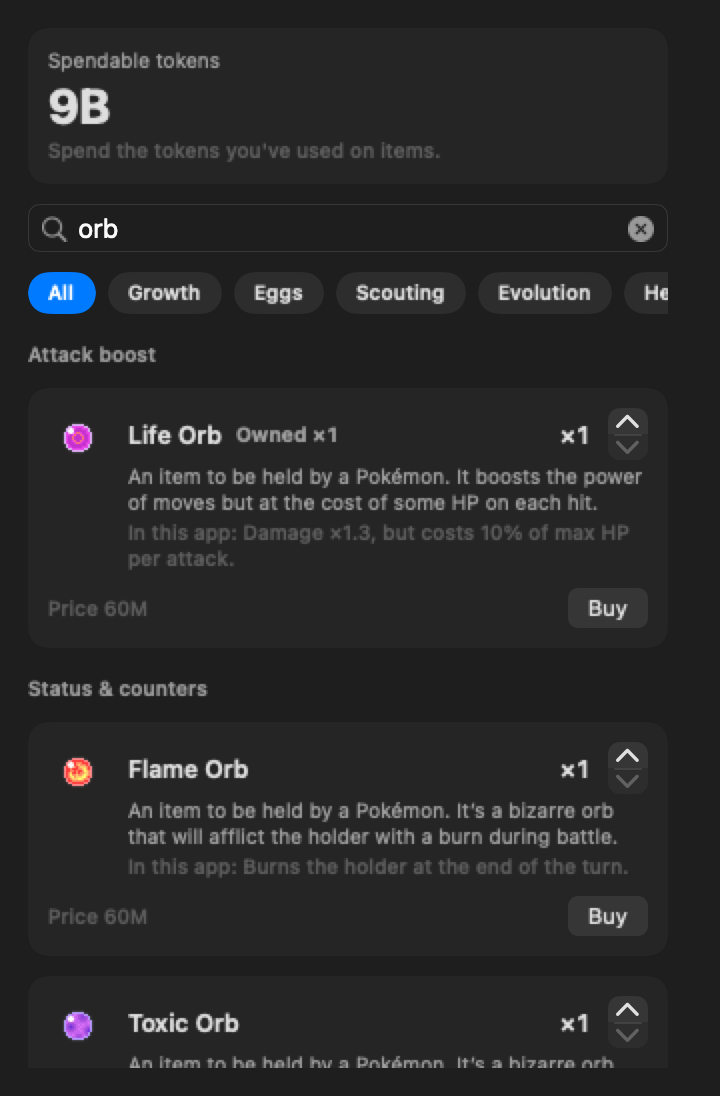
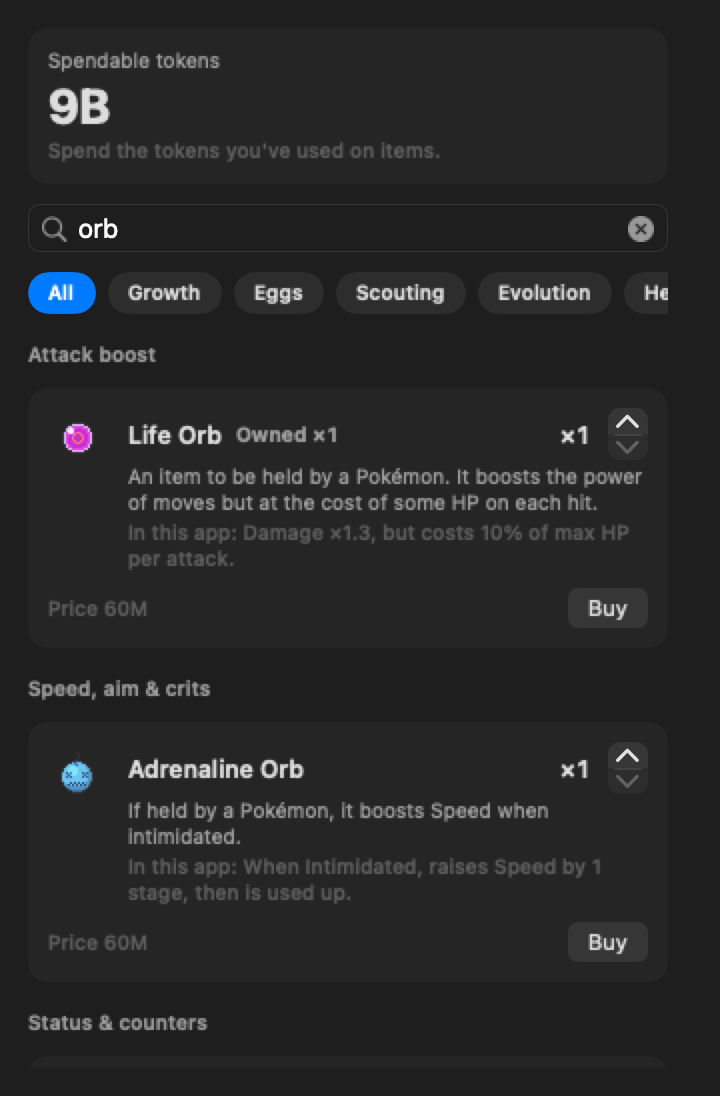
landing: every held item works in battles and the Shop sells it, with the redrawn Shop search

diff --git a/pages-i18n.js b/pages-i18n.js
@@ -98,7 +98,7 @@ const I18N_PAGES = {
     "bat.attack.d": "Every attacking move now does what it says: added effects like flinching and burns, recoil and draining, the damage a missed High Jump Kick deals, set damage like Night Shade and Super Fang, one-hit KOs, power from weight, HP or Speed, two-turn moves like Solar Beam and Fly, Outrage and the binding moves, Sucker Punch and Fake Out, Foul Play and Body Press, Future Sight, and Feint breaking through Protect. Trainers weigh recoil and HP costs before they pick. Two are left out and do nothing: Natural Gift and Fling, because the app keeps no per-berry or per-item power for them. Contact effects like Rocky Helmet and Static trigger only on moves that make contact, so Earthquake and Flower Trick don’t set them off, and a Mega Stone holder uses its entry ability, such as Intimidate, before it Mega Evolves at the start of its first turn. Protean and Libero turn their holder into the type of the move it uses, once each time it comes in. Every ability works too: 281 have their effect, the rest have none in this one-on-one format, and the replay shows form changes such as Stance Change and Zen Mode.",
     "bat.boss.t": "The hidden boss",
     "bat.boss.d": "Beat the champion and each region’s hidden boss opens below the Elite Four: one battle against six Pokémon and a hidden finale. The first win pays a TM with 100+ power, a shiny egg of the region’s legendary, 16 Rare Candies and the region’s signature items, and adds an emblem to the badge case.",
-    "bat.shop.d": "The Shop sells every item an NPC trainer holds, such as the Red and Blue Orbs, plates, resist berries and the Punching Glove.",
+    "bat.shop.d": "The Shop sells every held item that does something in battle: the Red and Blue Orbs, plates and resist berries NPC trainers hold, and also type gems, pinch berries, memories and drives.",
     "bat.replay.t": "Watch it play out",
     "bat.replay.d": "A gym fight plays back turn by turn: moves, damage, HP bars and each side’s remaining Pokémon. Mega Evolutions and form changes show in their new form from the turn they happen. Move names follow the app language. Fast-forward, step to the next turn, or skip to the result.",
     "bat.bot.t": "The YPoke Slack battle bot",
@@ -132,7 +132,7 @@ const I18N_PAGES = {
     "alt.eggMoves": "Native move picker sample with two locked egg moves, Needs a Mirror Herb and a Use Mirror Herb button",
     "it.profile.t": "Every Pokémon has a profile.",
     "it.profile.d": "Open a Pokémon in the Box for its level, gender, nature, ability, IVs, stats, held item and moves. Descriptions, abilities and moves follow your language, with English as the fallback.",
-    "alt.shopSearch": "Native Shop sample searched for orb, with Life Orb, Flame Orb and Toxic Orb under their usual headers",
+    "alt.shopSearch": "Native Shop sample searched for orb, with Life Orb and Adrenaline Orb under their usual headers",
     "alt.statusMoves": "Native move picker sample with level-up moves and a Status moves group",
     "alt.moveOrder": "Native sample of four move slots as cards, each filled one with up and down arrows and a Forget button",
     "nf.title": "This page wandered off.",
@@ -236,7 +236,7 @@ const I18N_PAGES = {
     "bat.attack.d": "모든 공격 기술이 제 효과를 내요. 풀죽음·화상 같은 추가 효과, 반동·흡수, 무릎차기가 빗나갔을 때 받는 데미지, 나이트헤드·분노의앞니 같은 고정 데미지, 일격필살, 무게·HP·스피드로 정해지는 위력, 솔라빔·공중날기 같은 2턴 기술, 역린과 조이기 기술, 기습·속이다, 속임수·바디프레스, 미래예지, 방어를 뚫는 페인트까지요. 트레이너는 반동과 HP 소모를 따져서 기술을 골라요. 자연의은혜와 내던지기 두 개만 빠져서 아무 일도 하지 않아요. 열매·도구별 위력 데이터가 앱에 없기 때문이에요. 울퉁불퉁멧·정전기 같은 접촉 효과는 접촉하는 기술에만 발동해서 지진·트릭플라워에는 발동하지 않고, 메가스톤을 지닌 포켓몬은 위협 같은 등장 특성을 먼저 쓴 뒤 첫 턴이 시작될 때 메가진화해요. 변환자재·리베로 특성을 가진 포켓몬은 나올 때마다 한 번, 쓰는 기술의 타입으로 바뀌어요. 특성도 모두 동작해요. 281개가 제 효과를 내고, 나머지는 이 1대1 대결 방식에서 효과가 없어요. 배틀스위치·달마모드 같은 폼 변화는 리플레이에도 보여요.",
     "bat.boss.t": "숨겨진 강자",
     "bat.boss.d": "챔피언을 이기면 지방마다 사천왕 아래에 숨겨진 강자가 열려요. 여섯 마리와 정체를 숨긴 마지막 포켓몬을 상대로 한 번 싸워요. 처음 이기면 위력 100 이상의 기술머신, 그 지방 전설 포켓몬의 빛나는 알, 이상한사탕 16개, 그 지방의 전용 도구를 받고, 배지 케이스에 문장이 생겨요.",
-    "bat.shop.d": "상점에서는 NPC 트레이너가 지닌 도구를 모두 팔아요. 주홍구슬·쪽빛구슬, 플레이트, 반감 열매, 펀치글러브 같은 것들이에요.",
+    "bat.shop.d": "상점에서는 대결에서 효과가 있는 지닌 도구를 모두 팔아요. NPC 트레이너가 지닌 주홍구슬·쪽빛구슬, 플레이트, 반감 열매부터 타입 주얼, 위기에 먹는 열매, 메모리, 카세트까지요.",
     "bat.replay.t": "대결 다시 보기",
     "bat.replay.d": "체육관 대결은 턴마다 다시 재생돼요. 기술·대미지·HP 바·양쪽에 남은 포켓몬을 볼 수 있고, 빨리 감기·다음 턴·건너뛰기로 결과까지 넘길 수 있어요. 메가진화나 폼 변화는 그 턴부터 바뀐 모습으로 나와요. 기술 이름은 앱 언어로 나와요.",
     "bat.bot.t": "YPoke 슬랙 대결 봇",
@@ -270,7 +270,7 @@ const I18N_PAGES = {
     "alt.eggMoves": "잠긴 알 기술 두 개와 흉내허브 필요, 흉내허브 쓰기 버튼이 있는 실제 기술 선택 UI 샘플",
     "it.profile.t": "포켓몬마다 프로필이 있어요.",
     "it.profile.d": "박스에서 포켓몬을 열면 레벨·성별·성격·특성·개체값·능력치·지닌 도구·기술이 나와요. 설명과 특성·기술은 선택한 언어로, 번역이 없으면 영어로 보여요.",
-    "alt.shopSearch": "orb로 검색해 생명의구슬·화염구슬·맹독구슬이 원래 제목 아래 보이는 실제 상점 UI 샘플",
+    "alt.shopSearch": "orb로 검색해 생명의구슬·주눅구슬이 원래 제목 아래 보이는 실제 상점 UI 샘플",
     "alt.statusMoves": "레벨업 기술과 변화 기술 묶음이 있는 실제 기술 선택 UI 샘플",
     "alt.moveOrder": "기술칸 네 개가 카드로 나뉘고 채워진 칸에 위아래 화살표와 잊기 버튼이 있는 실제 UI 샘플",
     "nf.title": "길을 잃은 페이지예요.",
@@ -374,7 +374,7 @@ const I18N_PAGES = {
     "bat.attack.d": "すべての攻撃わざが本来の効果を出します。ひるみ・やけどなどの追加効果、反動・吸収、とびひざげりを外したときのダメージ、ナイトヘッド・いかりのまえばのような固定ダメージ、一撃必殺、重さ・HP・すばやさで決まる威力、ソーラービーム・そらをとぶのような2ターンわざ、げきりんやしめつける系のわざ、ふいうち・ねこだまし、イカサマ・ボディプレス、みらいよち、まもるを破るフェイントまでです。トレーナーは反動とHPの消費を考えてわざを選びます。しぜんのめぐみとなげつけるの2つだけは対象外で、何も起きません。きのみ・道具ごとの威力データをアプリが持っていないためです。ゴツゴツメットやせいでんきなどの接触の効果は接触するわざにだけ発動するので、じしんやトリックフラワーでは発動しません。メガストーンを持ったポケモンは、いかくなどの登場時のとくせいを先に使ってから、最初のターンの始めにメガシンカします。とくせいがへんげんじざい・リベロのポケモンは、場に出るたびに1回、使うわざのタイプに変わります。とくせいもすべて動きます。281個が効果を発揮し、残りはこの1対1のバトル形式では効果がありません。バトルスイッチやダルマモードのようなフォルムチェンジはリプレイにも表示されます。",
     "bat.boss.t": "隠れた強者",
     "bat.boss.d": "チャンピオンに勝つと、各地方の四天王の下に隠れた強者が現れます。6匹と正体を隠した最後の1匹を相手に、1回だけ戦います。初めて勝つと、威力100以上のわざマシン、その地方の伝説のポケモンの色違いのタマゴ、ふしぎなアメ16個、その地方の専用道具がもらえ、バッジケースに紋章が加わります。",
-    "bat.shop.d": "ショップでは NPC トレーナーが持つ道具をすべて売っています。べにいろのたま・あいいろのたま、プレート、半減きのみ、パンチグローブなどです。",
+    "bat.shop.d": "ショップでは、バトルで効果のあるもちものをすべて売っています。NPC トレーナーが持つべにいろのたま・あいいろのたま、プレート、半減きのみから、タイプのジュエル、ピンチきのみ、メモリ、カセットまであります。",
     "bat.replay.t": "バトルを見返す",
     "bat.replay.d": "ジムのバトルはターンごとに再生されます。わざ・ダメージ・HP バー・双方の残りのポケモンを確認でき、早送り・次のターン・スキップで結果まで進められます。メガシンカやフォルムチェンジは、そのターンから変わった姿で表示されます。わざの名前はアプリの言語で表示されます。",
     "bat.bot.t": "YPoke の Slack バトルボット",
@@ -408,7 +408,7 @@ const I18N_PAGES = {
     "alt.eggMoves": "ロックされたタマゴわざ2つと、ものまねハーブが必要・ものまねハーブを使うボタンがある実際のわざ選択UIサンプル",
     "it.profile.t": "一匹ごとにプロフィール。",
     "it.profile.d": "ボックスでポケモンを開くと、レベル・性別・性格・とくせい・個体値・能力値・もちもの・わざが見られます。説明・とくせい・わざは選んだ言語で、翻訳がなければ英語で表示します。",
-    "alt.shopSearch": "orb で検索し、いのちのたま・かえんだま・どくどくだまがいつもの見出しの下に並ぶ実際のショップUIサンプル",
+    "alt.shopSearch": "orb で検索し、いのちのたま・ビビリだまがいつもの見出しの下に並ぶ実際のショップUIサンプル",
     "alt.statusMoves": "レベルアップわざと変化わざのグループがある実際のわざ選択UIサンプル",
     "alt.moveOrder": "4つのわざの枠がカードに分かれ、埋まった枠に上下の矢印と忘れるボタンがある実際のUIサンプル",
     "nf.title": "このページは迷子のようです。",

diff --git a/items/index.html b/items/index.html
@@ -39,9 +39,9 @@ try { var savedTheme=localStorage.getItem('ptb-theme'); if(savedTheme==='dark'||
 <figure class="feature-media crop"><img src="../assets/screenshot-shop.png" data-i18n-image="screenshot-shop" width="720" height="1280" loading="lazy" data-i18n-alt="alt.shop" alt="Native Shop sample showing consumable quantity controls and total price"><figcaption data-i18n="native.shop">Native UI · sample tokens · shop scroll view continues below.</figcaption></figure></section>
 
 <section class="feature-story flip" id="search" aria-labelledby="search-title"><div class="feature-copy"><span class="badge" data-i18n="badge.fork">Only in PokeTokenBar-yp</span><h2 id="search-title" data-i18n="it.search.t">Search the whole Shop</h2><p data-i18n="it.search.d">One field finds every item, Mega Stone, egg, Scout Ticket and TM. Names match in any of the app’s eight languages, and results keep the Shop’s headers.</p></div>
-<figure class="feature-media"><img src="../assets/screenshot-shop-search.png" data-i18n-image="screenshot-shop-search" width="720" height="1096" loading="lazy" data-i18n-alt="alt.shopSearch" alt="Native Shop sample searched for orb, with Life Orb, Flame Orb and Toxic Orb under their usual headers"><figcaption data-i18n="native.current">Native UI renders · sample states</figcaption></figure></section>
+<figure class="feature-media"><img src="../assets/screenshot-shop-search.png" data-i18n-image="screenshot-shop-search" width="720" height="1096" loading="lazy" data-i18n-alt="alt.shopSearch" alt="Native Shop sample searched for orb, with Life Orb and Adrenaline Orb under their usual headers"><figcaption data-i18n="native.current">Native UI renders · sample states</figcaption></figure></section>
 
-<section class="feature-story" id="held-items" aria-labelledby="held-title"><div class="feature-copy"><span class="badge" data-i18n="badge.fork">Only in PokeTokenBar-yp</span><h2 id="held-title" data-i18n="k7.t">Held items and Mega Evolution</h2><p data-i18n="k7.d">Equip a held item on a Pokémon’s Box page. The Shop and Bag group battle items by what they do, from attack boosts to weather. A Pokémon holding its Mega Stone Mega Evolves at the start of a battle, and Home, the floating pet and the menu bar show the Mega form. In the Shop, a second chip row shows one group at a time, and one search field finds any item, egg or TM by its name in any of the app’s languages.</p></div>
+<section class="feature-story" id="held-items" aria-labelledby="held-title"><div class="feature-copy"><span class="badge" data-i18n="badge.fork">Only in PokeTokenBar-yp</span><h2 id="held-title" data-i18n="k7.t">Held items and Mega Evolution</h2><p data-i18n="k7.d">Equip a held item on a Pokémon’s Box page. The Shop and Bag group battle items by what they do, from attack boosts to weather. A Pokémon holding its Mega Stone Mega Evolves at the start of a battle, and Home, the floating pet and the menu bar show the Mega form. In the Shop, a second chip row shows one group at a time, and one search field finds any item, egg or TM by its name in any of the app’s languages. Every held item works in battles, and the Shop sells each one that has an effect. Gems cost 20M because they are used up, and items that hold their holder back, like the power items and the Iron Ball, cost 5M.</p></div>
 <figure class="feature-media crop"><img src="../assets/screenshot-held-items.png" data-i18n-image="screenshot-held-items" width="720" height="1638" loading="lazy" data-i18n-alt="alt.held" alt="Native Shop and Bag sample with held items under Attack boost and Type boost"><figcaption data-i18n="native.current">Native UI renders · sample states</figcaption></figure></section>
 
 <section class="feature-story flip" id="moves" aria-labelledby="moves-title"><div class="feature-copy"><span class="badge" data-i18n="badge.fork">Only in PokeTokenBar-yp</span><h2 id="moves-title" data-i18n="k8.t">Moves and TMs</h2><p data-i18n="k8.d">A Pokémon’s Box page lists its four moves, and you can swap one for a level-up, egg or TM move, including status moves like Swords Dance. Buy a TM once in the Shop and every Pokémon that can learn it may use it. Each slot is its own card, and ▲/▼ swap it with its neighbor to set the order. Move names follow the app language.</p><h3 data-i18n="it.status.t">Status moves</h3><p data-i18n="it.status.d">Status moves have their own group in the move picker, each with a one-line effect. Every Gen 9 status move that works in a one-on-one battle is there, from Swords Dance and Thunder Wave to Protect, Substitute, Rest, Taunt, Baton Pass and Metronome. The few that do nothing in singles, like Whirlwind, Mean Look and Attract, are left out. In battle your Pokémon uses them by the trainers’ rules.</p><h3 data-i18n="it.power.t">TMs with Power —</h3><p data-i18n="it.power.d">Attacks whose power comes from their effect, such as Gyro Ball, Electro Ball, Low Kick, Night Shade and Reversal, show Power — in the TM shop and the move picker. The Shop sells 14 of them as TMs at the lowest price. Every attacking move works in battle except Natural Gift and Fling.</p><h3 data-i18n="it.order.t">Set the order</h3><p data-i18n="it.order.d">Each move slot is a card. ▲/▼ swap it with the slot above or below, so you can reorder without picking the moves again.</p><h3 data-i18n="it.herb.t">Egg moves with the Mirror Herb</h3><p data-i18n="it.herb.d">A Pokémon’s attacking egg moves sit after its TMs, locked until you use a Mirror Herb on it. One herb unlocks them for good, along with the egg moves of what it evolved from. Buy it in the Shop, or press Use Mirror Herb in the move picker to buy and use one in a single step.</p></div>
@@ -64,6 +64,6 @@ try { var savedTheme=localStorage.getItem('ptb-theme'); if(savedTheme==='dark'||
 <li><a class="page-link" href="../battle/" data-internal><span class="page-link-title" data-i18n="pages.battle.t">Battles and gyms</span><span class="page-link-desc" data-i18n="pages.battle.d">The Battle tab, eight gyms per region, the Elite Four and the champion, the hidden boss, replays and the Slack battle bot.</span></a></li>
 </ul><a class="btn btn-primary" href="../#install" data-internal><svg viewBox="0 0 24 24" fill="none" stroke="currentColor" stroke-width="1.75" stroke-linecap="round" stroke-linejoin="round" aria-hidden="true"><path d="M12 3v12m-5-5 5 5 5-5M5 17v4h14v-4"/></svg><span data-i18n="hero.install">Get PokeTokenBar</span></a></div></section>
 </main><footer class="site-footer"><div class="wrap"><div class="footer-top"><a class="brand" href="../" data-internal><img src="../assets/icon.png" width="32" height="32" alt=""><span>PokeTokenBar</span></a><nav class="footer-links" data-i18n-aria="aria.project" aria-label="Project links"><a data-i18n="footer.source" href="https://github.com/w8385/PokeTokenBar-yp" target="_blank" rel="noopener">Source code</a><a data-i18n="footer.releases" href="https://github.com/w8385/PokeTokenBar-yp/releases" target="_blank" rel="noopener">Release notes</a><a data-i18n="footer.help" href="https://github.com/w8385/PokeTokenBar-yp/issues" target="_blank" rel="noopener">Get help</a><a data-i18n="footer.upstream" href="https://github.com/chattymin/PokeTokenBar" target="_blank" rel="noopener">Original by chattymin</a><a data-i18n="footer.sponsor" href="https://github.com/sponsors/chattymin" target="_blank" rel="noopener">Sponsor</a></nav></div><p data-i18n="foot.disclaimer" class="disclaimer">Pokémon data &amp; sprites by PokéAPI. This is an unofficial, non-commercial fan project. It is not affiliated with, endorsed, sponsored, or approved by Nintendo, Game Freak, or The Pokémon Company. Pokémon and Pokémon character names are trademarks of Nintendo; names, data, and sprites are © Nintendo / Game Freak / The Pokémon Company, used at runtime for identification only. The MIT license covers this project's source code only.</p></div></footer>
-<script src="../pages-i18n.js?v=137a5b50" defer></script>
-<script src="../app.js?v=2a6e1da0" defer></script>
+<script src="../pages-i18n.js?v=44afc72d" defer></script>
+<script src="../app.js?v=afbdc963" defer></script>
 </body></html>

diff --git a/app.js b/app.js
@@ -154,7 +154,7 @@ const I18N = {
     "alt.nextEvo": "Native Pokédex page sample for Snorlax with the 30-pet condition at 3/30",
     "alt.moveOn": "Native Home sample with a Munchlax that needs 30 pets, the minutes until it moves to the Box, and Keep waiting",
     "k7.t": "Held items and Mega Evolution",
-    "k7.d": "Equip a held item on a Pokémon’s Box page. The Shop and Bag group battle items by what they do, from attack boosts to weather. A Pokémon holding its Mega Stone Mega Evolves at the start of a battle, and Home, the floating pet and the menu bar show the Mega form. In the Shop, a second chip row shows one group at a time, and one search field finds any item, egg or TM by its name in any of the app’s languages.",
+    "k7.d": "Equip a held item on a Pokémon’s Box page. The Shop and Bag group battle items by what they do, from attack boosts to weather. A Pokémon holding its Mega Stone Mega Evolves at the start of a battle, and Home, the floating pet and the menu bar show the Mega form. In the Shop, a second chip row shows one group at a time, and one search field finds any item, egg or TM by its name in any of the app’s languages. Every held item works in battles, and the Shop sells each one that has an effect. Gems cost 20M because they are used up, and items that hold their holder back, like the power items and the Iron Ball, cost 5M.",
     "alt.held": "Native Shop and Bag sample with held items under Attack boost and Type boost",
     "k8.t": "Moves and TMs",
     "k8.d": "A Pokémon’s Box page lists its four moves, and you can swap one for a level-up, egg or TM move, including status moves like Swords Dance. Buy a TM once in the Shop and every Pokémon that can learn it may use it. Each slot is its own card, and ▲/▼ swap it with its neighbor to set the order. Move names follow the app language.",
@@ -426,7 +426,7 @@ const I18N = {
     "alt.nextEvo": "쓰다듬기 30번 조건이 3/30으로 보이는 실제 잠만보 도감 페이지 UI 샘플",
     "alt.moveOn": "쓰다듬기 30번이 필요한 먹고자, 박스로 가기까지 남은 시간과 계속 기다리기 버튼이 보이는 실제 홈 UI 샘플",
     "k7.t": "지닌 도구와 메가진화",
-    "k7.d": "지닌 도구는 포켓몬의 박스 페이지에서 달아요. 상점과 가방은 대결용 도구를 공격 강화부터 날씨까지 하는 일별로 묶어 보여 줘요. 메가스톤을 지닌 포켓몬은 대결이 시작될 때 메가진화하고, 홈·플로팅 펫·메뉴바에도 메가진화한 모습이 보여요. 상점에서는 두 번째 칩 줄로 묶음 하나만 골라 보고, 검색창 하나로 아이템·알·기술머신을 앱의 어느 언어 이름으로든 찾아요.",
+    "k7.d": "지닌 도구는 포켓몬의 박스 페이지에서 달아요. 상점과 가방은 대결용 도구를 공격 강화부터 날씨까지 하는 일별로 묶어 보여 줘요. 메가스톤을 지닌 포켓몬은 대결이 시작될 때 메가진화하고, 홈·플로팅 펫·메뉴바에도 메가진화한 모습이 보여요. 상점에서는 두 번째 칩 줄로 묶음 하나만 골라 보고, 검색창 하나로 아이템·알·기술머신을 앱의 어느 언어 이름으로든 찾아요. 지닌 도구는 대결에서 전부 효과를 내고, 상점은 효과가 있는 도구를 모두 팔아요. 주얼은 한 번 쓰면 없어져서 20M이고, 파워 계열 도구나 검은철구처럼 지닌 포켓몬을 붙잡는 도구는 5M이에요.",
     "alt.held": "공격 강화·타입 강화 아래에 지닌 도구가 놓인 실제 상점·가방 UI 샘플",
     "k8.t": "기술과 기술머신",
     "k8.d": "포켓몬의 박스 페이지에 기술 네 개가 나오고, 레벨업·알 기술이나 기술머신 기술로 하나씩 바꿀 수 있어요. 칼춤 같은 변화 기술도 돼요. 기술머신은 상점에서 한 번 사면 배울 수 있는 모든 포켓몬이 쓸 수 있어요. 기술칸은 칸마다 카드로 나뉘고, ▲/▼로 옆 칸과 자리를 바꿔 순서를 정해요. 기술 이름은 앱 언어로 나와요.",
@@ -698,7 +698,7 @@ const I18N = {
     "alt.nextEvo": "30回なでる条件が3/30と表示された実際のカビゴンの図鑑ページUIサンプル",
     "alt.moveOn": "30回なでる必要があるゴンベ、ボックスへ移るまでの残り時間と「待ち続ける」ボタンが見える実際のホームUIサンプル",
     "k7.t": "もちものとメガシンカ",
-    "k7.d": "もちものはポケモンのボックスページで持たせます。ショップとバッグでは、バトル用の道具を攻撃アップから天気まで、役割ごとにまとめて表示します。メガストーンを持ったポケモンはバトルの開始時にメガシンカし、ホーム・デスクトップペット・メニューバーでもメガシンカした姿になります。 ショップでは2段目のチップでグループを1つだけ表示でき、検索欄ひとつで道具・タマゴ・わざマシンをアプリのどの言語の名前でも探せます。",
+    "k7.d": "もちものはポケモンのボックスページで持たせます。ショップとバッグでは、バトル用の道具を攻撃アップから天気まで、役割ごとにまとめて表示します。メガストーンを持ったポケモンはバトルの開始時にメガシンカし、ホーム・デスクトップペット・メニューバーでもメガシンカした姿になります。 ショップでは2段目のチップでグループを1つだけ表示でき、検索欄ひとつで道具・タマゴ・わざマシンをアプリのどの言語の名前でも探せます。もちものはバトルですべて効果を発揮し、ショップでは効果のあるものをすべて売っています。ジュエルは1回で使い切るので20M、パワー系の道具やくろいてっきゅうのように持たせたポケモンの足を引っぱる道具は5Mです。",
     "alt.held": "攻撃アップ・タイプ強化の見出しの下にもちものが並ぶ実際のショップ・バッグUIサンプル",
     "k8.t": "わざとわざマシン",
     "k8.d": "ポケモンのボックスページには4つのわざが並び、レベルアップわざ・タマゴわざ・わざマシンのわざと1つずつ入れ替えられます。つるぎのまいのような変化わざも使えます。わざマシンはショップで一度買えば、覚えられるすべてのポケモンが使えます。技の枠は一つずつカードに分かれ、▲/▼で隣の枠と入れ替えて順番を決められます。わざの名前はアプリの言語で表示されます。",

diff --git a/battle/index.html b/battle/index.html
@@ -44,7 +44,7 @@ try { var savedTheme=localStorage.getItem('ptb-theme'); if(savedTheme==='dark'||
 <section class="feature-story" id="elite-four" aria-labelledby="elite-title"><div class="feature-copy"><h2 id="elite-title" data-i18n="k5.t">The Elite Four and the champion</h2><p data-i18n="k5.d">Below the gyms, the hideout is a run of battles with a full heal before each one, and a loss starts it again. Eight badges open the Elite Four run below it. The champion brings the region’s legendaries and hides one more partner, shown as +1 ?, until the first six faint. Beating the champion opens a hidden boss whose first clear pays a strong TM, a shiny legendary egg and Rare Candies. Each gym fight can be replayed turn by turn, with Mega Evolutions and form changes drawn as they happen.</p></div>
 <figure class="feature-media"><img src="../assets/screenshot-champion-finale.png" data-i18n-image="screenshot-champion-finale" width="720" height="726" loading="lazy" data-i18n-alt="alt.champion" alt="Native Elite Four run sample where the champion's hidden partner comes out"><figcaption data-i18n="native.current">Native UI renders · sample states</figcaption></figure></section>
 
-<section class="feature-story flip" id="hidden-boss" aria-labelledby="boss-title"><div class="feature-copy"><h2 id="boss-title" data-i18n="bat.boss.t">The hidden boss</h2><p data-i18n="bat.boss.d">Beat the champion and each region’s hidden boss opens below the Elite Four: one battle against six Pokémon and a hidden finale. The first win pays a TM with 100+ power, a shiny egg of the region’s legendary, 16 Rare Candies and the region’s signature items, and adds an emblem to the badge case.</p><p data-i18n="bat.shop.d">The Shop sells every item an NPC trainer holds, such as the Red and Blue Orbs, plates, resist berries and the Punching Glove.</p></div>
+<section class="feature-story flip" id="hidden-boss" aria-labelledby="boss-title"><div class="feature-copy"><h2 id="boss-title" data-i18n="bat.boss.t">The hidden boss</h2><p data-i18n="bat.boss.d">Beat the champion and each region’s hidden boss opens below the Elite Four: one battle against six Pokémon and a hidden finale. The first win pays a TM with 100+ power, a shiny egg of the region’s legendary, 16 Rare Candies and the region’s signature items, and adds an emblem to the badge case.</p><p data-i18n="bat.shop.d">The Shop sells every held item that does something in battle: the Red and Blue Orbs, plates and resist berries NPC trainers hold, and also type gems, pinch berries, memories and drives.</p></div>
 <figure class="feature-media"><img src="../assets/screenshot-hidden-boss.png" data-i18n-image="screenshot-hidden-boss" width="720" height="896" loading="lazy" data-i18n-alt="alt.hiddenBoss" alt="Native sample of a beaten hidden boss with its first-clear prize"><figcaption data-i18n="native.current">Native UI renders · sample states</figcaption></figure></section>
 
 <section class="feature-story" id="replay" aria-labelledby="replay-title"><div class="feature-copy"><h2 id="replay-title" data-i18n="bat.replay.t">Watch it play out</h2><p data-i18n="bat.replay.d">A gym fight plays back turn by turn: moves, damage, HP bars and each side’s remaining Pokémon. Mega Evolutions and form changes show in their new form from the turn they happen. Move names follow the app language. Fast-forward, step to the next turn, or skip to the result.</p></div>
@@ -65,6 +65,6 @@ try { var savedTheme=localStorage.getItem('ptb-theme'); if(savedTheme==='dark'||
 <li><a class="page-link" href="../items/" data-internal><span class="page-link-title" data-i18n="pages.items.t">Items and moves</span><span class="page-link-desc" data-i18n="pages.items.d">The token Shop, held items and Mega Evolution, TMs, the Exp. Share, and nature, ability and IV items.</span></a></li>
 </ul><a class="btn btn-primary" href="../#install" data-internal><svg viewBox="0 0 24 24" fill="none" stroke="currentColor" stroke-width="1.75" stroke-linecap="round" stroke-linejoin="round" aria-hidden="true"><path d="M12 3v12m-5-5 5 5 5-5M5 17v4h14v-4"/></svg><span data-i18n="hero.install">Get PokeTokenBar</span></a></div></section>
 </main><footer class="site-footer"><div class="wrap"><div class="footer-top"><a class="brand" href="../" data-internal><img src="../assets/icon.png" width="32" height="32" alt=""><span>PokeTokenBar</span></a><nav class="footer-links" data-i18n-aria="aria.project" aria-label="Project links"><a data-i18n="footer.source" href="https://github.com/w8385/PokeTokenBar-yp" target="_blank" rel="noopener">Source code</a><a data-i18n="footer.releases" href="https://github.com/w8385/PokeTokenBar-yp/releases" target="_blank" rel="noopener">Release notes</a><a data-i18n="footer.help" href="https://github.com/w8385/PokeTokenBar-yp/issues" target="_blank" rel="noopener">Get help</a><a data-i18n="footer.upstream" href="https://github.com/chattymin/PokeTokenBar" target="_blank" rel="noopener">Original by chattymin</a><a data-i18n="footer.sponsor" href="https://github.com/sponsors/chattymin" target="_blank" rel="noopener">Sponsor</a></nav></div><p data-i18n="foot.disclaimer" class="disclaimer">Pokémon data &amp; sprites by PokéAPI. This is an unofficial, non-commercial fan project. It is not affiliated with, endorsed, sponsored, or approved by Nintendo, Game Freak, or The Pokémon Company. Pokémon and Pokémon character names are trademarks of Nintendo; names, data, and sprites are © Nintendo / Game Freak / The Pokémon Company, used at runtime for identification only. The MIT license covers this project's source code only.</p></div></footer>
-<script src="../pages-i18n.js?v=137a5b50" defer></script>
-<script src="../app.js?v=2a6e1da0" defer></script>
+<script src="../pages-i18n.js?v=44afc72d" defer></script>
+<script src="../app.js?v=afbdc963" defer></script>
 </body></html>

diff --git a/index.html b/index.html
@@ -144,6 +144,6 @@ try { var savedTheme=localStorage.getItem('ptb-theme'); if(savedTheme==='dark'||
 </ul><p class="note" data-i18n="providers.note">Limits depend on your login: official Claude, Codex and Antigravity limits, OpenCode Go allowances and Grok CLI subscription credits. Devin CLI and Kimi Code record no cost, so their cost shows as unavailable.</p></div></section>
 <section class="section faq"><div class="wrap faq-layout"><h2 data-i18n="faq.title" >A few good questions.</h2><div><details><summary><span data-i18n="faq.free.q" >Is it free?</span></summary><div class="details-body"><p data-i18n="faq.free.a" >Yes. PokeTokenBar is a free, open-source fan project. Shop items use the tokens you’ve already spent on coding, not real-money purchases.</p></div></details><details><summary><span data-i18n="faq.notool.q">Do I need an AI coding tool?</span></summary><div class="details-body"><p data-i18n="faq.notool.a">No. Time mode grows your partner from the time you are active on your Mac. Usage and limit tracking needs at least one supported tool.</p></div></details><details><summary><span data-i18n="faq.privacy.q" >Does it upload my usage logs?</span></summary><div class="details-body"><p data-i18n="faq.privacy.a" >No. Usage logs stay on your Mac. The app still uses the network for provider usage and limits, Pokémon data and sprites, service status and updates. It is not a fully offline app.</p></div></details><details><summary><span data-i18n="faq.cost.q" >Does raising a Pokémon spend extra tokens?</span></summary><div class="details-body"><p data-i18n="faq.cost.a" >No. The app reads usage from your supported coding tools. It doesn’t run model turns to grow your companion.</p></div></details><details><summary><span data-i18n="faq.fork.q">How is this different from PokeTokenBar?</span></summary><div class="details-body"><p data-i18n="faq.fork.a">PokeTokenBar-yp is an unofficial fork of chattymin’s PokeTokenBar (MIT). It adds the features under Only in PokeTokenBar-yp. Report problems with this fork here, not to the original project.</p><a class="text-link" href="https://github.com/chattymin/PokeTokenBar" target="_blank" rel="noopener">chattymin/PokeTokenBar</a></div></details><details><summary><span data-i18n="faq.source.q" >Can I build it myself?</span></summary><div class="details-body"><p data-i18n="faq.source.a" >Yes. The Swift source, build instructions and issue tracker are on GitHub.</p><a class="text-link" href="https://github.com/w8385/PokeTokenBar-yp" target="_blank" rel="noopener">GitHub</a></div></details></div></div></section>
 </main><footer class="site-footer"><div class="wrap"><div class="footer-top"><a class="brand" href="#top"><img src="assets/icon.png" width="32" height="32" alt=""><span>PokeTokenBar</span></a><nav class="footer-links" data-i18n-aria="aria.project" aria-label="Project links"><a data-i18n="footer.source" href="https://github.com/w8385/PokeTokenBar-yp" target="_blank" rel="noopener">Source code</a><a data-i18n="footer.releases" href="https://github.com/w8385/PokeTokenBar-yp/releases" target="_blank" rel="noopener">Release notes</a><a data-i18n="footer.help" href="https://github.com/w8385/PokeTokenBar-yp/issues" target="_blank" rel="noopener">Get help</a><a data-i18n="footer.upstream" href="https://github.com/chattymin/PokeTokenBar" target="_blank" rel="noopener">Original by chattymin</a><a data-i18n="footer.sponsor" href="https://github.com/sponsors/chattymin" target="_blank" rel="noopener">Sponsor</a></nav></div><p data-i18n="foot.disclaimer" class="disclaimer">Pokémon data &amp; sprites by PokéAPI. This is an unofficial, non-commercial fan project. It is not affiliated with, endorsed, sponsored, or approved by Nintendo, Game Freak, or The Pokémon Company. Pokémon and Pokémon character names are trademarks of Nintendo; names, data, and sprites are © Nintendo / Game Freak / The Pokémon Company, used at runtime for identification only. The MIT license covers this project's source code only.</p></div></footer>
-<script src="pages-i18n.js?v=137a5b50" defer></script>
-<script src="app.js?v=2a6e1da0" defer></script>
+<script src="pages-i18n.js?v=44afc72d" defer></script>
+<script src="app.js?v=afbdc963" defer></script>
 </body></html>

diff --git a/collection/index.html b/collection/index.html
@@ -66,6 +66,6 @@ try { var savedTheme=localStorage.getItem('ptb-theme'); if(savedTheme==='dark'||
 <li><a class="page-link" href="../items/" data-internal><span class="page-link-title" data-i18n="pages.items.t">Items and moves</span><span class="page-link-desc" data-i18n="pages.items.d">The token Shop, held items and Mega Evolution, TMs, the Exp. Share, and nature, ability and IV items.</span></a></li>
 </ul><a class="btn btn-primary" href="../#install" data-internal><svg viewBox="0 0 24 24" fill="none" stroke="currentColor" stroke-width="1.75" stroke-linecap="round" stroke-linejoin="round" aria-hidden="true"><path d="M12 3v12m-5-5 5 5 5-5M5 17v4h14v-4"/></svg><span data-i18n="hero.install">Get PokeTokenBar</span></a></div></section>
 </main><footer class="site-footer"><div class="wrap"><div class="footer-top"><a class="brand" href="../" data-internal><img src="../assets/icon.png" width="32" height="32" alt=""><span>PokeTokenBar</span></a><nav class="footer-links" data-i18n-aria="aria.project" aria-label="Project links"><a data-i18n="footer.source" href="https://github.com/w8385/PokeTokenBar-yp" target="_blank" rel="noopener">Source code</a><a data-i18n="footer.releases" href="https://github.com/w8385/PokeTokenBar-yp/releases" target="_blank" rel="noopener">Release notes</a><a data-i18n="footer.help" href="https://github.com/w8385/PokeTokenBar-yp/issues" target="_blank" rel="noopener">Get help</a><a data-i18n="footer.upstream" href="https://github.com/chattymin/PokeTokenBar" target="_blank" rel="noopener">Original by chattymin</a><a data-i18n="footer.sponsor" href="https://github.com/sponsors/chattymin" target="_blank" rel="noopener">Sponsor</a></nav></div><p data-i18n="foot.disclaimer" class="disclaimer">Pokémon data &amp; sprites by PokéAPI. This is an unofficial, non-commercial fan project. It is not affiliated with, endorsed, sponsored, or approved by Nintendo, Game Freak, or The Pokémon Company. Pokémon and Pokémon character names are trademarks of Nintendo; names, data, and sprites are © Nintendo / Game Freak / The Pokémon Company, used at runtime for identification only. The MIT license covers this project's source code only.</p></div></footer>
-<script src="../pages-i18n.js?v=137a5b50" defer></script>
-<script src="../app.js?v=2a6e1da0" defer></script>
+<script src="../pages-i18n.js?v=44afc72d" defer></script>
+<script src="../app.js?v=afbdc963" defer></script>
 </body></html>

diff --git a/growth/index.html b/growth/index.html
@@ -69,6 +69,6 @@ try { var savedTheme=localStorage.getItem('ptb-theme'); if(savedTheme==='dark'||
 <li><a class="page-link" href="../items/" data-internal><span class="page-link-title" data-i18n="pages.items.t">Items and moves</span><span class="page-link-desc" data-i18n="pages.items.d">The token Shop, held items and Mega Evolution, TMs, the Exp. Share, and nature, ability and IV items.</span></a></li>
 </ul><a class="btn btn-primary" href="../#install" data-internal><svg viewBox="0 0 24 24" fill="none" stroke="currentColor" stroke-width="1.75" stroke-linecap="round" stroke-linejoin="round" aria-hidden="true"><path d="M12 3v12m-5-5 5 5 5-5M5 17v4h14v-4"/></svg><span data-i18n="hero.install">Get PokeTokenBar</span></a></div></section>
 </main><footer class="site-footer"><div class="wrap"><div class="footer-top"><a class="brand" href="../" data-internal><img src="../assets/icon.png" width="32" height="32" alt=""><span>PokeTokenBar</span></a><nav class="footer-links" data-i18n-aria="aria.project" aria-label="Project links"><a data-i18n="footer.source" href="https://github.com/w8385/PokeTokenBar-yp" target="_blank" rel="noopener">Source code</a><a data-i18n="footer.releases" href="https://github.com/w8385/PokeTokenBar-yp/releases" target="_blank" rel="noopener">Release notes</a><a data-i18n="footer.help" href="https://github.com/w8385/PokeTokenBar-yp/issues" target="_blank" rel="noopener">Get help</a><a data-i18n="footer.upstream" href="https://github.com/chattymin/PokeTokenBar" target="_blank" rel="noopener">Original by chattymin</a><a data-i18n="footer.sponsor" href="https://github.com/sponsors/chattymin" target="_blank" rel="noopener">Sponsor</a></nav></div><p data-i18n="foot.disclaimer" class="disclaimer">Pokémon data &amp; sprites by PokéAPI. This is an unofficial, non-commercial fan project. It is not affiliated with, endorsed, sponsored, or approved by Nintendo, Game Freak, or The Pokémon Company. Pokémon and Pokémon character names are trademarks of Nintendo; names, data, and sprites are © Nintendo / Game Freak / The Pokémon Company, used at runtime for identification only. The MIT license covers this project's source code only.</p></div></footer>
-<script src="../pages-i18n.js?v=137a5b50" defer></script>
-<script src="../app.js?v=2a6e1da0" defer></script>
+<script src="../pages-i18n.js?v=44afc72d" defer></script>
+<script src="../app.js?v=afbdc963" defer></script>
 </body></html>

diff --git a/usage/index.html b/usage/index.html
@@ -88,6 +88,6 @@ try { var savedTheme=localStorage.getItem('ptb-theme'); if(savedTheme==='dark'||
 <li><a class="page-link" href="../items/" data-internal><span class="page-link-title" data-i18n="pages.items.t">Items and moves</span><span class="page-link-desc" data-i18n="pages.items.d">The token Shop, held items and Mega Evolution, TMs, the Exp. Share, and nature, ability and IV items.</span></a></li>
 </ul><a class="btn btn-primary" href="../#install" data-internal><svg viewBox="0 0 24 24" fill="none" stroke="currentColor" stroke-width="1.75" stroke-linecap="round" stroke-linejoin="round" aria-hidden="true"><path d="M12 3v12m-5-5 5 5 5-5M5 17v4h14v-4"/></svg><span data-i18n="hero.install">Get PokeTokenBar</span></a></div></section>
 </main><footer class="site-footer"><div class="wrap"><div class="footer-top"><a class="brand" href="../" data-internal><img src="../assets/icon.png" width="32" height="32" alt=""><span>PokeTokenBar</span></a><nav class="footer-links" data-i18n-aria="aria.project" aria-label="Project links"><a data-i18n="footer.source" href="https://github.com/w8385/PokeTokenBar-yp" target="_blank" rel="noopener">Source code</a><a data-i18n="footer.releases" href="https://github.com/w8385/PokeTokenBar-yp/releases" target="_blank" rel="noopener">Release notes</a><a data-i18n="footer.help" href="https://github.com/w8385/PokeTokenBar-yp/issues" target="_blank" rel="noopener">Get help</a><a data-i18n="footer.upstream" href="https://github.com/chattymin/PokeTokenBar" target="_blank" rel="noopener">Original by chattymin</a><a data-i18n="footer.sponsor" href="https://github.com/sponsors/chattymin" target="_blank" rel="noopener">Sponsor</a></nav></div><p data-i18n="foot.disclaimer" class="disclaimer">Pokémon data &amp; sprites by PokéAPI. This is an unofficial, non-commercial fan project. It is not affiliated with, endorsed, sponsored, or approved by Nintendo, Game Freak, or The Pokémon Company. Pokémon and Pokémon character names are trademarks of Nintendo; names, data, and sprites are © Nintendo / Game Freak / The Pokémon Company, used at runtime for identification only. The MIT license covers this project's source code only.</p></div></footer>
-<script src="../pages-i18n.js?v=137a5b50" defer></script>
-<script src="../app.js?v=2a6e1da0" defer></script>
+<script src="../pages-i18n.js?v=44afc72d" defer></script>
+<script src="../app.js?v=afbdc963" defer></script>
 </body></html>

diff --git a/404.html b/404.html
@@ -34,6 +34,6 @@ try { var savedTheme=localStorage.getItem('ptb-theme'); if(savedTheme==='dark'||
 <li><a class="page-link" href="/PokeTokenBar-yp/items/" data-internal><span class="page-link-title" data-i18n="pages.items.t">Items and moves</span><span class="page-link-desc" data-i18n="pages.items.d">The token Shop, held items and Mega Evolution, TMs, the Exp. Share, and nature, ability and IV items.</span></a></li>
 </ul></div></section>
 </main><footer class="site-footer"><div class="wrap"><div class="footer-top"><a class="brand" href="/PokeTokenBar-yp/" data-internal><img src="/PokeTokenBar-yp/assets/icon.png" width="32" height="32" alt=""><span>PokeTokenBar</span></a><nav class="footer-links" data-i18n-aria="aria.project" aria-label="Project links"><a data-i18n="footer.source" href="https://github.com/w8385/PokeTokenBar-yp" target="_blank" rel="noopener">Source code</a><a data-i18n="footer.releases" href="https://github.com/w8385/PokeTokenBar-yp/releases" target="_blank" rel="noopener">Release notes</a><a data-i18n="footer.help" href="https://github.com/w8385/PokeTokenBar-yp/issues" target="_blank" rel="noopener">Get help</a><a data-i18n="footer.upstream" href="https://github.com/chattymin/PokeTokenBar" target="_blank" rel="noopener">Original by chattymin</a><a data-i18n="footer.sponsor" href="https://github.com/sponsors/chattymin" target="_blank" rel="noopener">Sponsor</a></nav></div><p data-i18n="foot.disclaimer" class="disclaimer">Pokémon data &amp; sprites by PokéAPI. This is an unofficial, non-commercial fan project. It is not affiliated with, endorsed, sponsored, or approved by Nintendo, Game Freak, or The Pokémon Company. Pokémon and Pokémon character names are trademarks of Nintendo; names, data, and sprites are © Nintendo / Game Freak / The Pokémon Company, used at runtime for identification only. The MIT license covers this project's source code only.</p></div></footer>
-<script src="/PokeTokenBar-yp/pages-i18n.js?v=137a5b50" defer></script>
-<script src="/PokeTokenBar-yp/app.js?v=2a6e1da0" defer></script>
+<script src="/PokeTokenBar-yp/pages-i18n.js?v=44afc72d" defer></script>
+<script src="/PokeTokenBar-yp/app.js?v=afbdc963" defer></script>
 </body></html>
